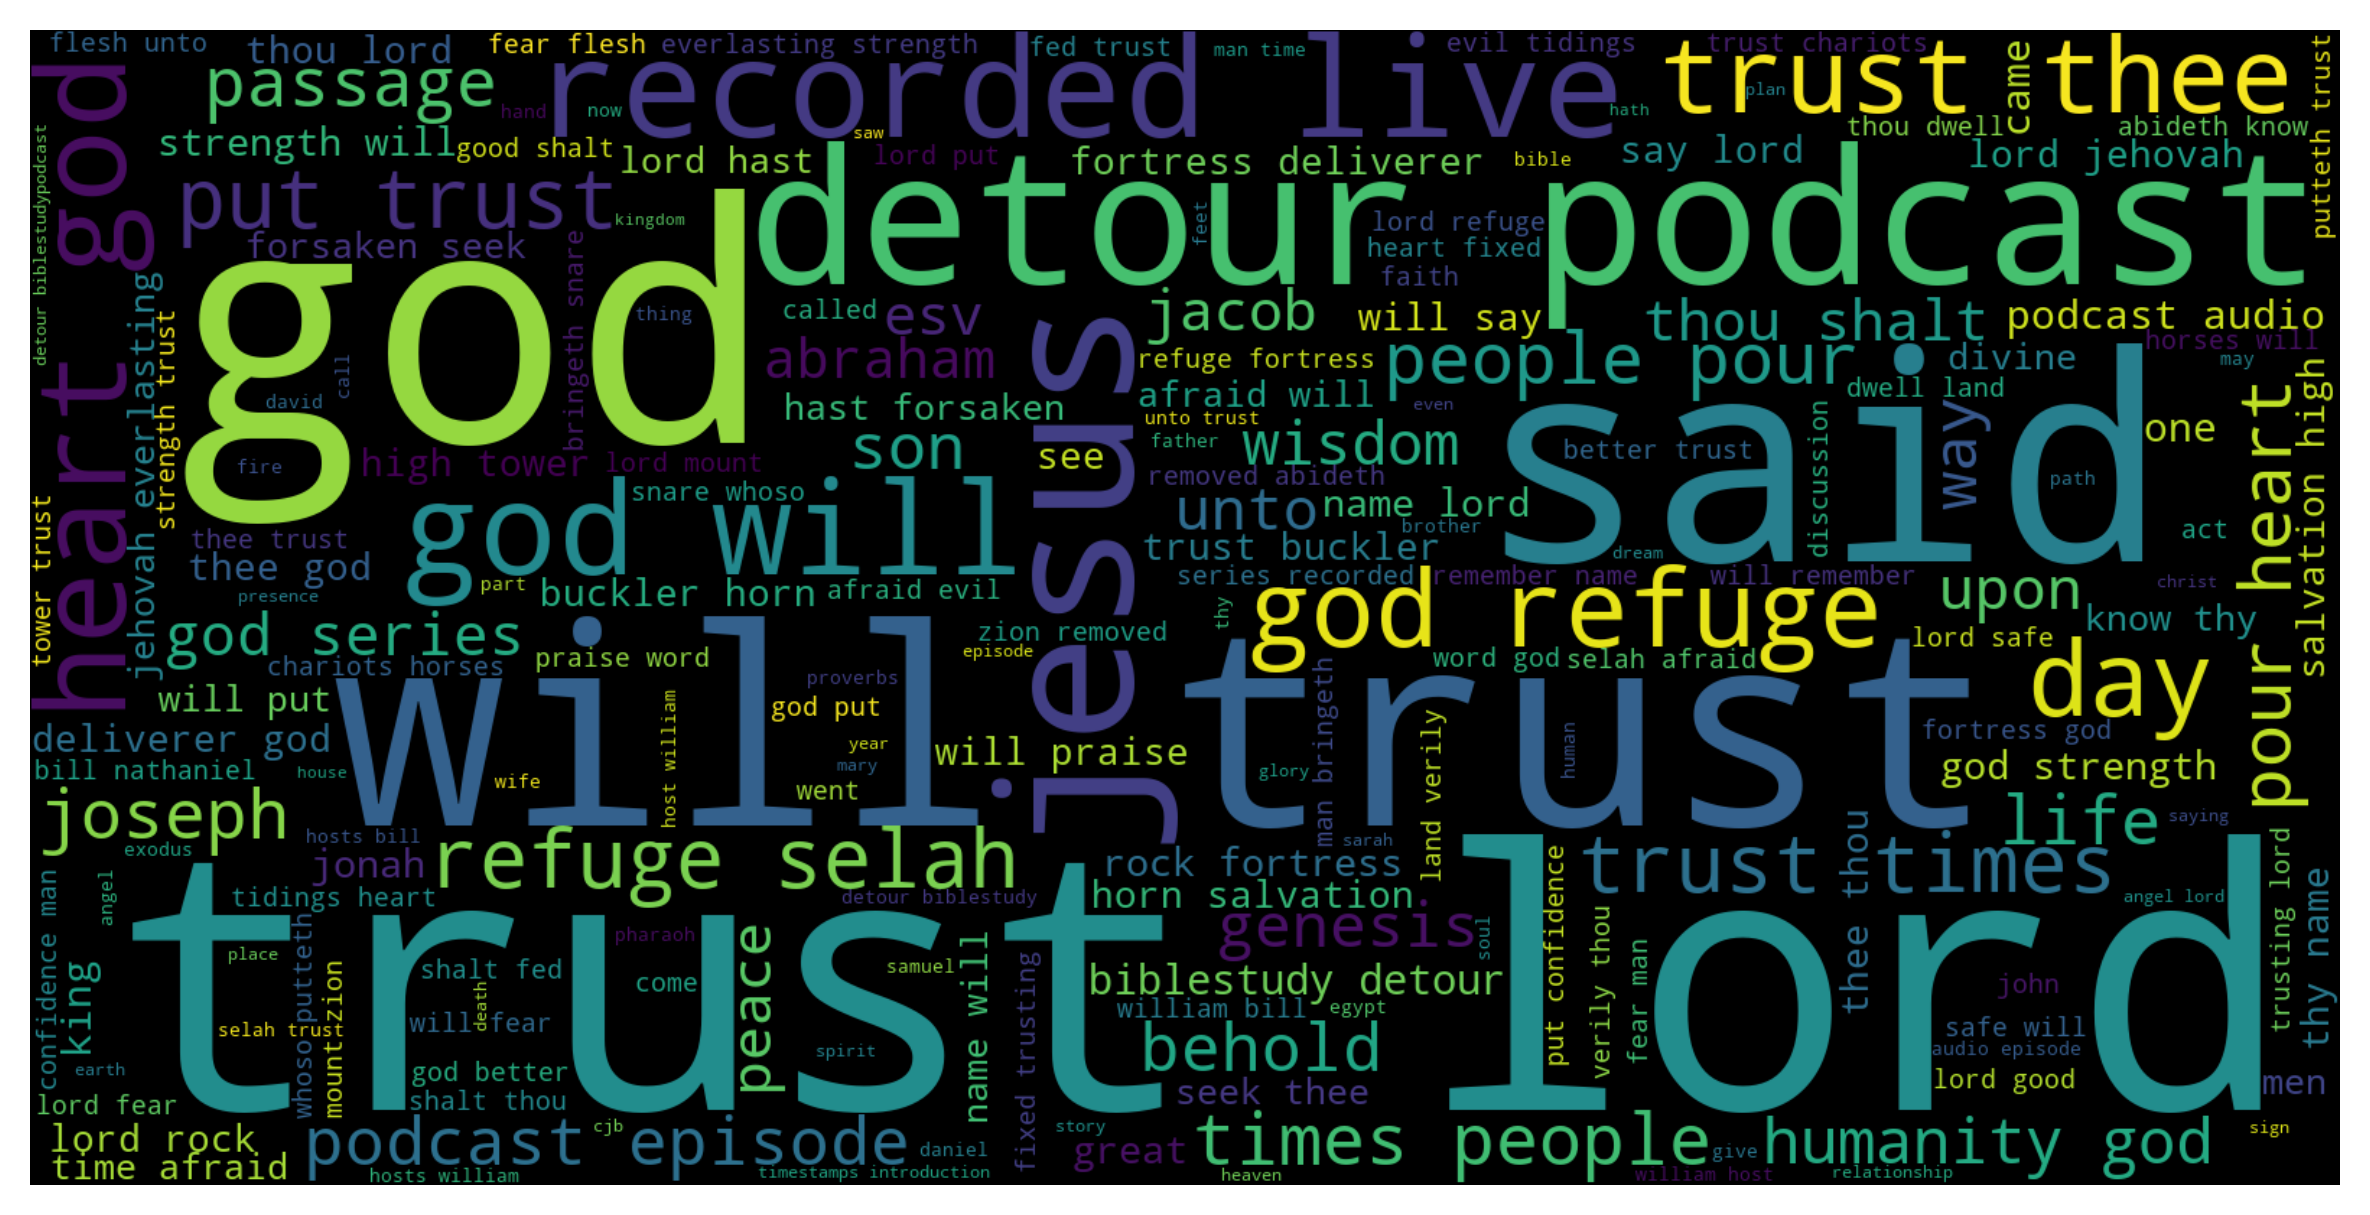
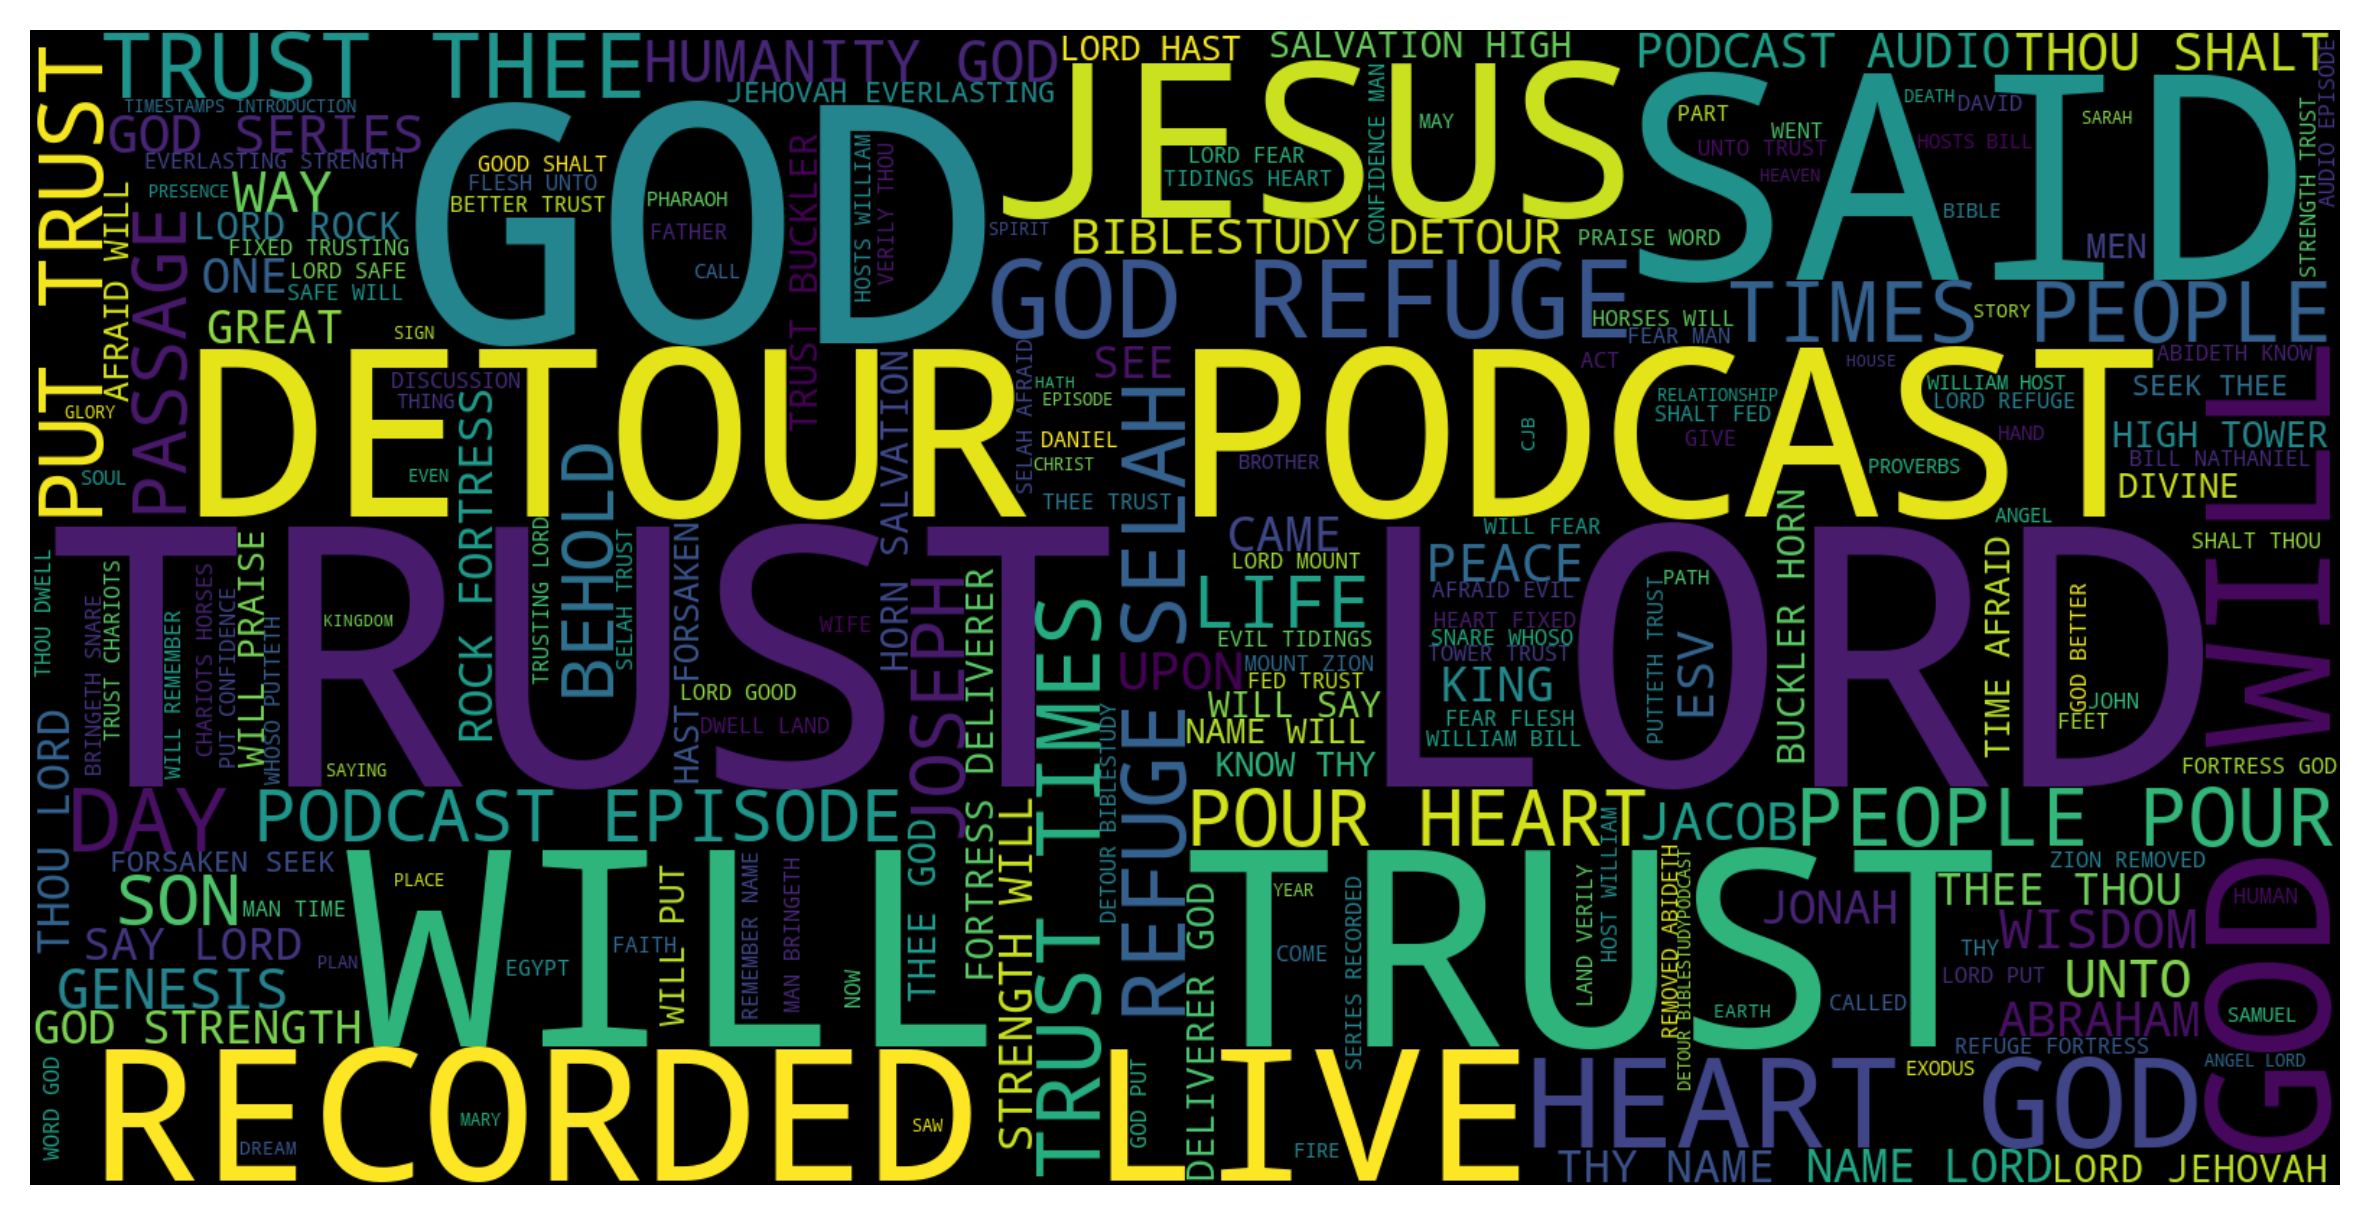
updated wordcloud in stats.py to show uppercase instead of lowercase

diff --git a/python/stats.py b/python/stats.py
@@ -158,7 +158,7 @@ class BibleStudyStats:
         )
         text = re.sub(r"[^A-Za-z\s]", " ", text).lower()
         stop = {w.lower() for w in STOPWORDS}
-        text = " ".join(w for w in text.split() if w not in stop and len(w) > 2)
+        text = " ".join(w for w in text.split() if w not in stop and len(w) > 2).upper()
 
         wc = WordCloud(width=1600, height=800, background_color="black").generate(text)
         plt.figure(figsize=(10, 5))
